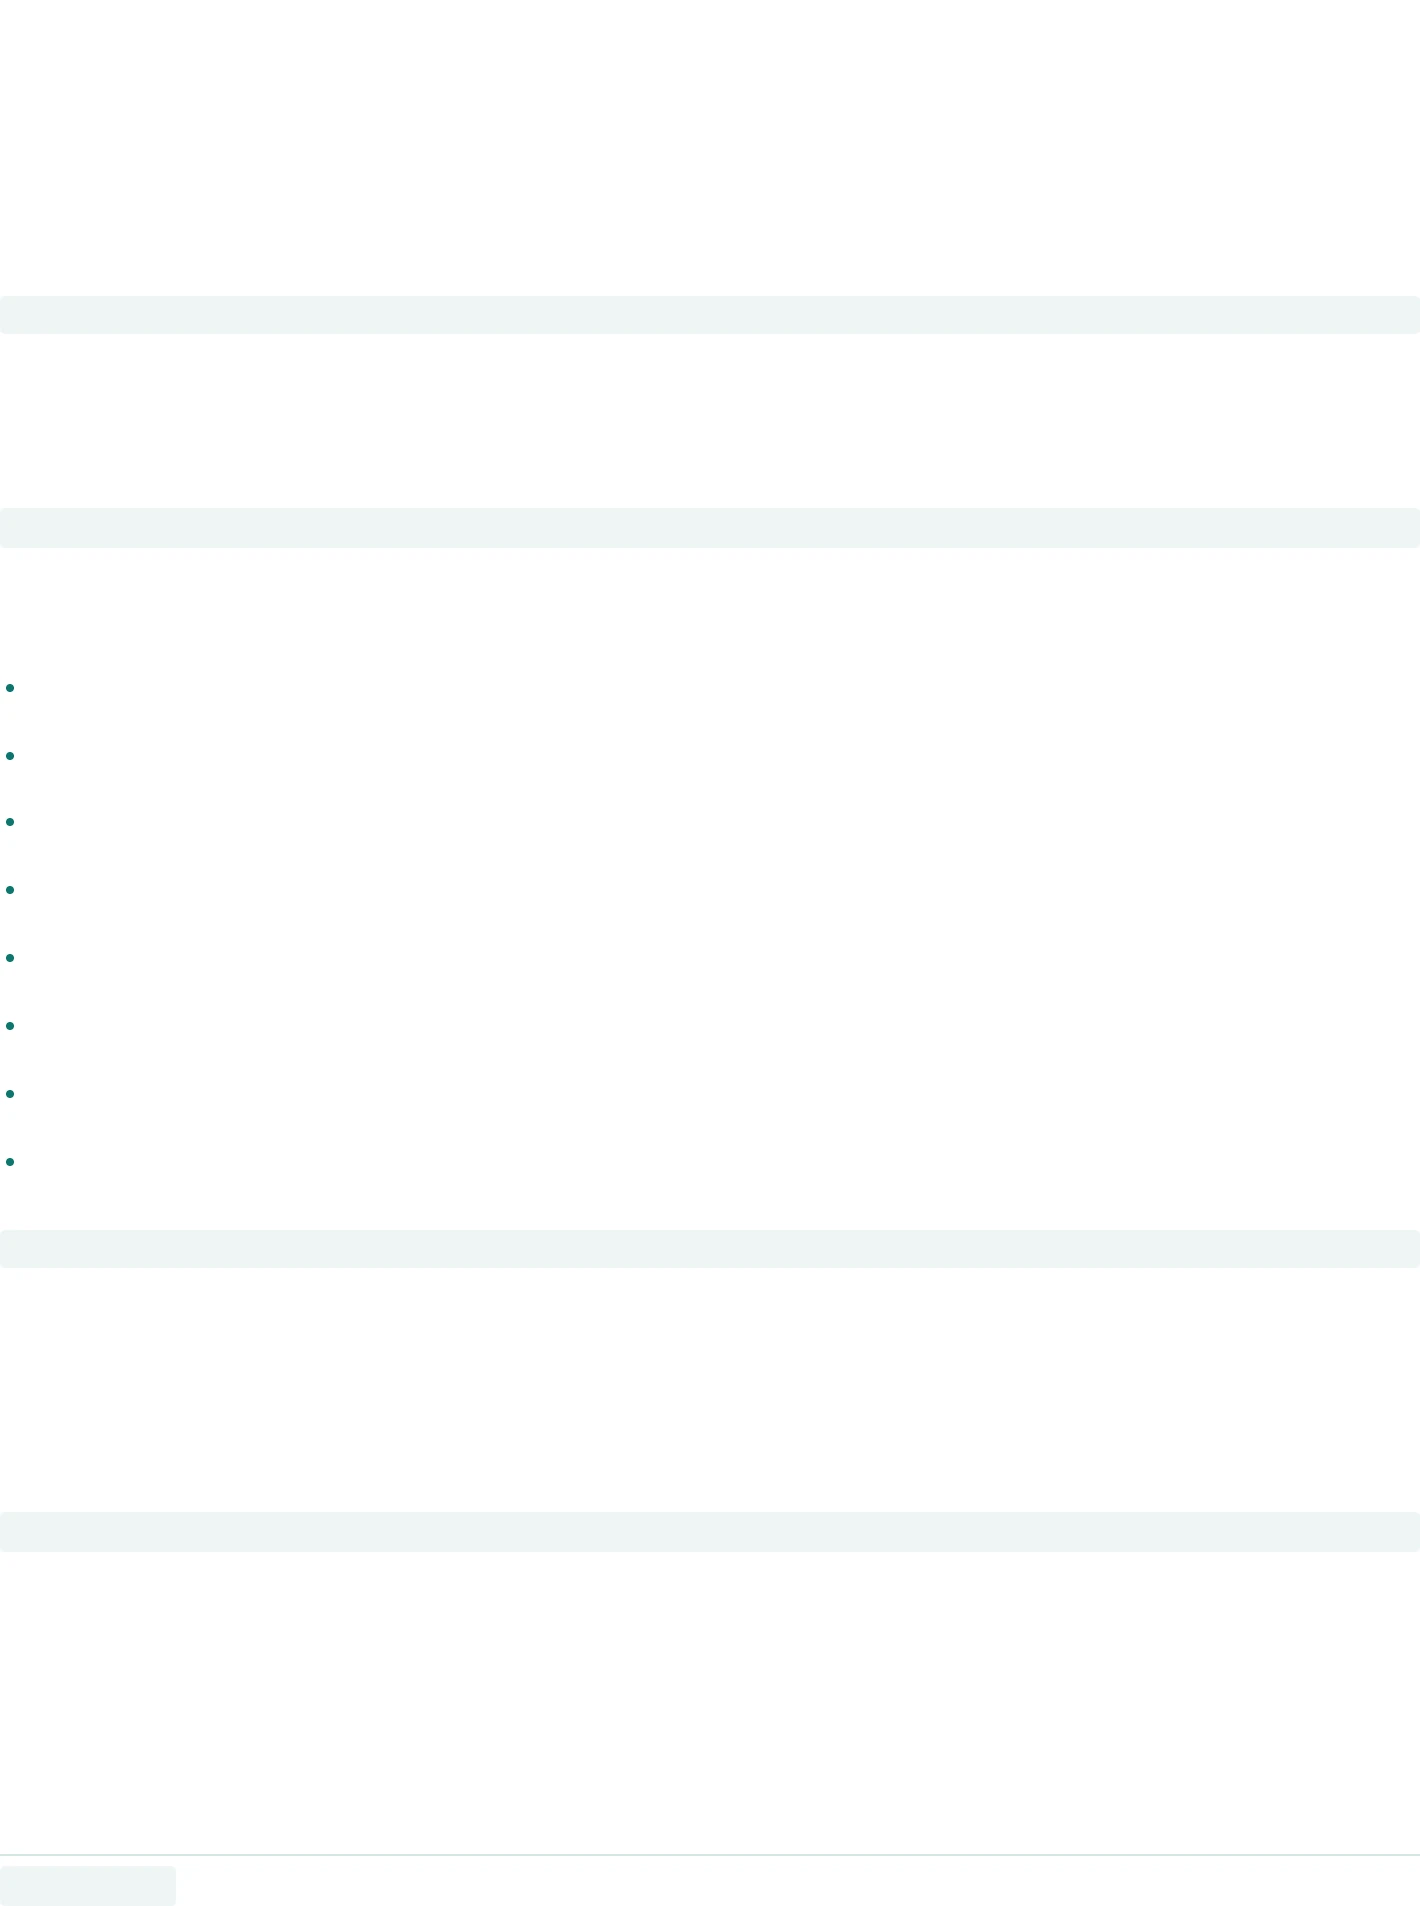
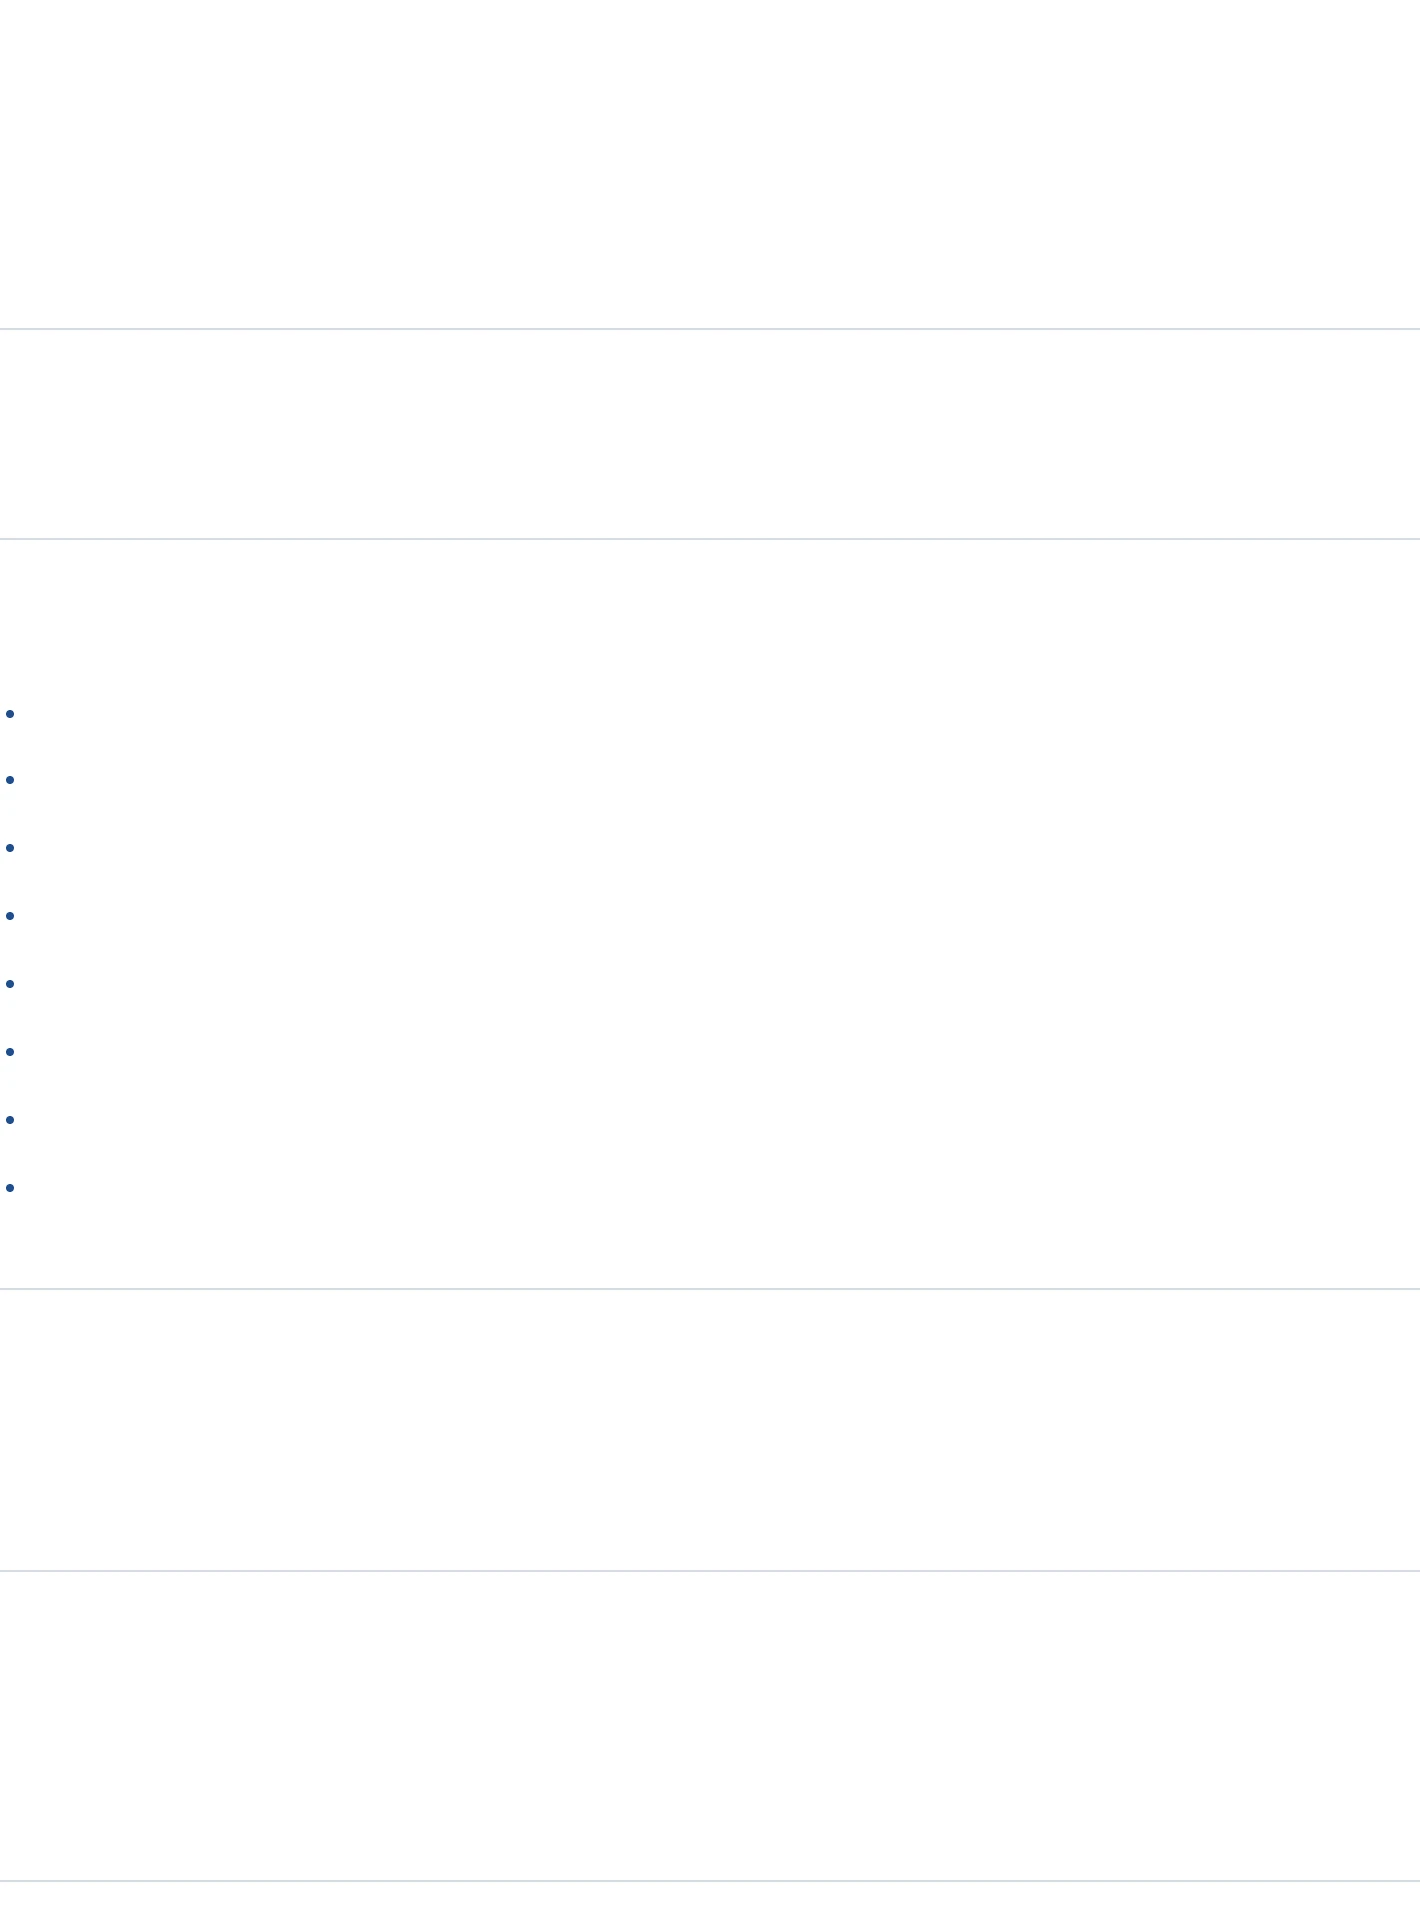
feat(resume): the 3D resume shows the three TimelyCare titles
Regenerated public/resume/ from Rezmancer PR #18's AI Engineer HTML (no
phone or email). Play's level gains a line and a checkpoint: 48 lines,
seven checkpoints (2026, 2025, 2023, 2022, 2021, 2018, 1998), 27 coins.
resume.ts takes Rezmancer's "to" for the two arrows.

diff --git a/src/data/resume.ts b/src/data/resume.ts
@@ -86,7 +86,7 @@ export const resume: Resume = {
         { id: 'resource-finder', text: 'Shipped an **AI Resource Finder** for care coordinators (OpenAI Agents SDK, web search, structured outputs, SSE streaming), backed by a ~71K-resource directory I built to replace a six-figure vendor contract.' },
         { id: 'payments-platform', text: 'Designed, built, and launched a **provider payment platform** that Finance uses to audit and publish monthly payouts for **~750 clinicians and 50K+ visits/month**. In production since June 2026.' },
         { id: 'payments-audit', text: 'Cut the full-month payout audit from **~44 to ~3 minutes**, and moved payment rules out of SQL stored functions into effective-dated decision tables, resolving six code-vs-policy discrepancies with Finance and Care Ops.' },
-        { id: 'payments-bugs', text: 'Found and fixed payout-correctness bugs, including a no-show overpayment regression (30 items/month → 0), a cron/ETL race that underpaid late-month visits, and a vocabulary mismatch that left **363 coaching sessions unpaid**.' },
+        { id: 'payments-bugs', text: 'Found and fixed payout-correctness bugs, including a no-show overpayment regression (30 items/month to 0), a cron/ETL race that underpaid late-month visits, and a vocabulary mismatch that left **363 coaching sessions unpaid**.' },
         { id: 'growth-pilot', text: 'Ran an abandoned-signup email pilot across a 33-school university system with **7.1% registration vs ~3%** for a comparison group (**~2.7× lift**) and 0 spam complaints, and removed ~919K billable profiles from the vendor workspace.' },
         { id: 'earlier-timely', text: 'Earlier, built an event-driven reporting dashboard (SNS/SQS, SQL, Node, React) that helped sales close several large clients, and **cut post-release bugs 50%** with Vitest, Playwright, and Detox.' },
       ],
@@ -104,7 +104,7 @@ export const resume: Resume = {
       blurb: 'multiplayer 3D math game',
       link: { href: 'https://numberslayers.com', label: 'numberslayers.com' },
       stack: 'React Three Fiber · Colyseus · Next.js · Convex · Railway',
-      text: 'Server-authoritative multiplayer with snapshot interpolation at 60fps, AI enemy bots, an adaptive Web Audio mixer, and an FBX→GLB asset pipeline that cut load size 88%.',
+      text: 'Server-authoritative multiplayer with snapshot interpolation at 60fps, AI enemy bots, an adaptive Web Audio mixer, and an FBX to GLB asset pipeline that cut load size 88%.',
     },
   ],
   earlier: [

diff --git a/src/__tests__/jelly-platforms.test.ts b/src/__tests__/jelly-platforms.test.ts
@@ -41,8 +41,8 @@ describe('buildLevel', () => {
     lv = buildLevel(w, inkFixture(w))
   })
 
-  it('clusters the words into the 47 visual lines, top to bottom, each left to right', () => {
-    expect(lv.lines).toHaveLength(47)
+  it('clusters the words into the 48 visual lines, top to bottom, each left to right', () => {
+    expect(lv.lines).toHaveLength(48)
     for (let i = 1; i < lv.lines.length; i++) expect(lv.lines[i].inkTop).toBeLessThan(lv.lines[i - 1].inkTop - 0.15)
     for (const line of lv.lines) {
       const xs = line.bodies.map((bi) => w.bodies[bi].x0)
@@ -57,14 +57,15 @@ describe('buildLevel', () => {
   it('starts at the name and finishes on the bottom line (you read the resume walking down it)', () => {
     expect(lv.start).toBe(0)
     expect(words(w, lv, lv.start)).toBe('Phill Aelony')
-    expect(lv.finish).toBe(46)
+    expect(lv.finish).toBe(47)
     expect(words(w, lv, lv.finish)).toBe('EDUCATION B.A. Jazz Studies · University of North Texas')
   })
 
   it('makes a checkpoint of each role, newest first, in reading order', () => {
     expect(lv.checkpoints.map((c) => [c.year, c.title])).toEqual([
       [2026, 'Generative AI Engineer'],
-      [2023, 'Senior Software Engineer II'],
+      [2025, 'Senior Software Engineer II'],
+      [2023, 'Software Engineer'],
       [2022, 'Software Engineer · Sessions'],
       [2021, 'Front End Developer · Designit for Microsoft'],
       [2018, 'Freelance Developer · phillcodes.com'],

diff --git a/src/__tests__/jelly-play-run.test.ts b/src/__tests__/jelly-play-run.test.ts
@@ -63,7 +63,7 @@ describe('createRun', () => {
     expect(run.reach(5).map((c) => c.year)).toEqual([]) // above them all
     expect(run.reach(cps[0].line).map((c) => c.year)).toEqual([2026])
     expect(run.reach(cps[0].line).map((c) => c.year)).toEqual([]) // once
-    expect(run.reach(cps[3].line + 1).map((c) => c.year)).toEqual([2023, 2022, 2021]) // dropped past three
+    expect(run.reach(cps[3].line + 1).map((c) => c.year)).toEqual([2025, 2023, 2022]) // dropped past three
     expect(run.checkpoint).toBe(3)
     expect(run.reach(cps[0].line).map((c) => c.year)).toEqual([]) // never backwards
     expect(run.checkpoint).toBe(3)

diff --git a/docs/plans/2026-10-16-experience-refresh-plan.md b/docs/plans/2026-10-16-experience-refresh-plan.md
@@ -148,7 +148,8 @@ The TimelyCare card goes (it's in Experience now). `project-details.json` (Wizar
 - [x] **T9: the Wizard + SEO.** `wizard-prompt.ts`: drop `experience.json`; `<experience>` = `JSON.stringify` of `career.jobs` + `career.music` (company, dates, roles, tiles' title + detail, lines); new `<career-notes>` = `career.notes` as a bulleted list; `{{SUMMARY}}` = the new `wizard.json` summary (Binding §6). Tell the Wizard in its Clear Speech rules that `career-notes` are true details it may share. `structured-data.ts`: `jobTitle`/`worksFor` from `career.ts`. Tests: the prompt contains "Generative AI Engineer", "Customer.io", "MCP", a note's text, and no "Agent OS"/"5-10x"; JSON-LD `jobTitle` is "Generative AI Engineer". Report the prompt's length before/after (chars) in the task note.
   - *Done 2026-10-16:* the system prompt went from **20,943 to 23,610 chars** (+2,667, +13%: the 16 notes, less the old 6-entry `experience.json`). `<experience>` = `career.jobs` (company, dates, roles, the tiles' title + detail, lines) + `career.music`, `**` stripped; `<career-notes>` = the notes as `- ` lines; Clear Speech says they are true details it may share. The served JSON-LD on `/` says `"jobTitle":"Generative AI Engineer","worksFor":{…"TimelyCare"}`. `experience.json` and the `Experience` type are deleted (the T6 carry-over). The "no Agent OS / 5-10x" check covers the summary and `<experience>`; `skills.json` still lists Agent OS until T10, which widens the check to the whole prompt. No chat was opened.
 - [x] **T10: neighbours.** Hero h1, About ¶4, `skills.json` per Binding §6; update `skills-section.test.tsx`/`data-architecture.test.ts` if they pin the old lists.
-- [ ] **T11: the 3D resume's snapshot.** `node docs/design/jelly-resume/tools/snapshot.mjs --web ~/Desktop/dev/rezmancer-titles/out/Phill_Aelony_Resume_AI_Engineer.html public/resume` (it refuses to write if a phone or email survives). Expect one more line and one more checkpoint (the climbing order becomes 1998, 2018, 2021, 2022, 2023, 2025, 2026); update `jelly-platforms.test.ts` (line count, the checkpoint list), `jelly-play-run.test.ts`, `jelly-pickups.test.ts`, `jelly-helpers.test.ts`, `resume-page.test.tsx` to the observed values only after checking them on the page (coins should stay 27: the bullets didn't change). In the browser: the 3D resume shows the three titles with no missing glyphs; Play reaches the new checkpoint (its toast shows "Senior Software Engineer II").
+- [x] **T11: the 3D resume's snapshot.** `node docs/design/jelly-resume/tools/snapshot.mjs --web ~/Desktop/dev/rezmancer-titles/out/Phill_Aelony_Resume_AI_Engineer.html public/resume` (it refuses to write if a phone or email survives). Expect one more line and one more checkpoint (the climbing order becomes 1998, 2018, 2021, 2022, 2023, 2025, 2026); update `jelly-platforms.test.ts` (line count, the checkpoint list), `jelly-play-run.test.ts`, `jelly-pickups.test.ts`, `jelly-helpers.test.ts`, `resume-page.test.tsx` to the observed values only after checking them on the page (coins should stay 27: the bullets didn't change). In the browser: the 3D resume shows the three titles with no missing glyphs; Play reaches the new checkpoint (its toast shows "Senior Software Engineer II").
+  - *Done 2026-10-16:* 640 words (was 631), no phone or email (the tool's guard + a re-check). Observed on the page before touching the tests: **48 lines** (finish = line 47), **7 checkpoints** (2026 Generative AI Engineer · 2025 Senior Software Engineer II · 2023 Software Engineer · 2022 · 2021 · 2018 · 1998), **27 coins**; the TimelyCare block shows the three titles and dates with no missing glyphs; standing on line 14 in Play shows the toast "✓ CHECKPOINT 2025 Senior Software Engineer II" and the climb meter gains the 2025 and 2023 ticks. Also synced `resume.ts` with Rezmancer's earlier "to" for the two arrows (Rezmancer `bc910bc`: "30 items/month to 0", "FBX to GLB"), which the snapshot test caught; `projects.json` keeps Binding §5's "FBX→GLB".
 - [ ] **T12: docs + version.** `CLAUDE.md`: Key Files (`career.ts` as the career source and its grounding test; `components/experience/` and `HudButton`; `SiteMusic.open`; `RESUME_PDF`; remove `experience.json`); the `public/resume/` regenerate line keeps working. `package.json` 1.5.0 → **1.6.0**. All four gates green.
 - [ ] **T13: performance + a11y pass** (production build: `npm run build && npm run start`). Chrome trace, emulated phone (390×844, 4× CPU), scrolling the section top to bottom: record DrawFrame fps and the longest task; no task > 50 ms from this section; the tile count-ups and rail never cause layout per frame (no layout reads inside rAF). Keyboard: Tab through the tiles (Enter/Space toggle, Esc closes), Listen, both CTAs, visible focus everywhere; `prefers-reduced-motion` emulated: nothing moves, the rail is full, numbers final. Lighthouse accessibility on `/` ≥ the T0 baseline. Record the numbers here.
 - [ ] **T14: PR text. STOP before pushing and ask Phill.** Write the PR title/body here (summary, the binding decisions, screenshots to take, measurements, test plan, the About ¶4 wording and the three-roles wording (lede, note 16, Wizard summary) to approve, `🤖 Generated with [Claude Code](https://claude.com/claude-code)` at the end). On Phill's go only: `git push -u origin feat/experience-refresh` + `gh pr create --base master`.
